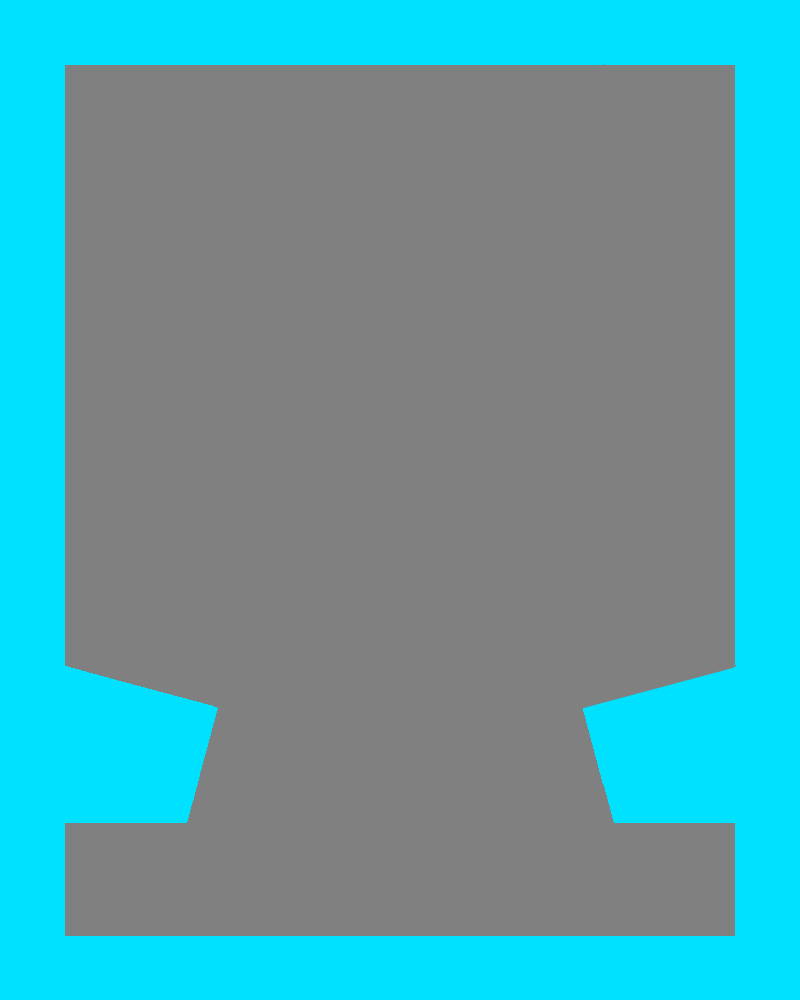
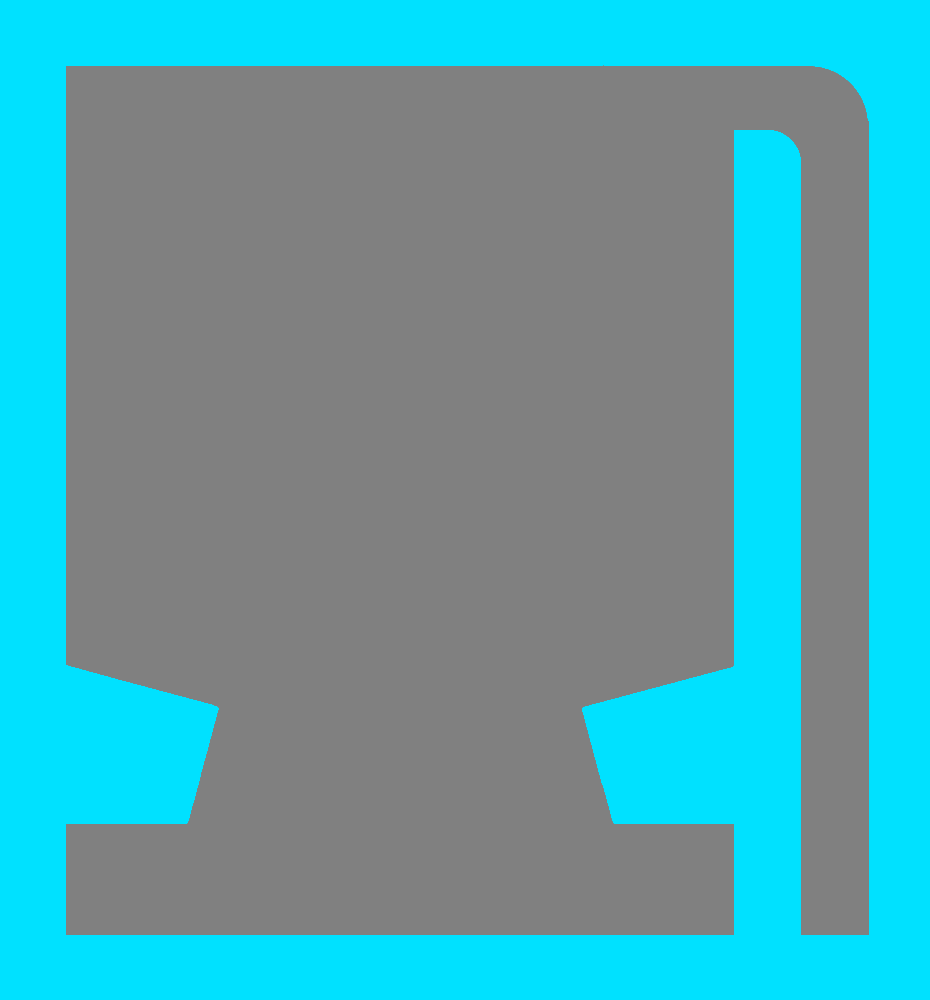
Updated

diff --git a/Pinball.py b/Pinball.py
@@ -2,7 +2,6 @@ import pygame, pymunk, math, pymunk.pygame_util, random
 from pymunk import Vec2d 
 from Ball import*
 from Hud import*
-from Lives import*
 from Map import*
 from Bumper import*
 from Flipper import*
@@ -16,7 +15,7 @@ Map.collision_type = 2
 Flipper.collision_type = 3
 Bumper.collision_type = 4
 
-size = (800,1000)
+size = (930,1000)
 screen = pygame.display.set_mode(size)
 draw_options = pymunk.pygame_util.DrawOptions(screen)
 #https://www.vpforums.org/Tutorials/Sounds/SndLib1.html 
@@ -46,9 +45,16 @@ objects.append(leftFlipper)
 bumperCenters = [(250, 200), (400, 300),(550, 200)]
 for center in bumperCenters:
     objects.append(Bumper(space, center))
-        
+    
+points = 0
+
+live = Hud("lives ",[0,0])
+point = Hud("points ", [620,0])
 
 def game():
+    ballcountMAX = 1
+    ballcount = 0 
+    lives = 3
     while True:
         for event in pygame.event.get():
             if event.type == pygame.QUIT:
@@ -60,20 +66,36 @@ def game():
                     leftFlipper.flip()
                 if event.type == pygame.KEYDOWN:
                     if event.key == pygame.K_b:
-                        x = random.randint(200, 600)
-                        ball = Ball(space, [x, 350]) 
-                        objects.append(ball)
+                        if ballcount < ballcountMAX:
+                            ballcount += 1
+                            if random.randint(0,1) == 0:    #left
+                                x = random.randint(200, 350)
+                            else:
+                                x = random.randint(450, 600)
+                            ball = Ball(space, [x, 350]) 
+                            objects.append(ball)
+                        else:
+                            print("Cannot add another ball")
         
         
         for o in objects:
             o.update()
             if o.rect.top > size[1]:
+                ballcount -= 1
+                lives -=1
                 o.drainSound.play()
                 space.remove(o.body, o.shape)
                 objects.remove(o)
+                
+        live.update(lives) 
+        if lives == 0:
+            pygame.quit()
+        
         
         screen.fill((255,255,255))
         screen.blit(table.image, table.rect)
+        screen.blit(live.image, live.rect)
+        screen.blit(point.image, point.rect)
         for line in table.lines:
             pygame.draw.line(screen, ("black"), line.a, line.b, 5)
         for o in objects:

diff --git a/Map.py b/Map.py
@@ -10,15 +10,20 @@ class Map():
             #box
             [(65, 665), (218, 708)],
             [(735, 665), (582, 708)],
-            [(735, 665), (735, 65)],
-            [(735, 65), (65, 65)],
+            [(735, 665), (735, 130)],
+            [(815, 65), (65, 65)],
             [(65, 65), (65, 665)],
             #left pinch
             [(140, 600), (235, 630)],
             [(140, 600), (145, 500)],
             #right pinch
             [(660, 600), (565, 630)],
-            [(660, 600), (655, 500)]
+            [(660, 600), (655, 500)],
+            #Launcher
+            [(735, 130), (775, 130)],
+            [(869, 121), (869, 935)],
+            [(869, 935), (800, 935)],
+            [(800, 935), (800, 156)],
         ]
         
         self.lines  = []

diff --git a/Hud.py b/Hud.py
@@ -1,0 +1,14 @@
+import pygame, pymunk, math, pymunk.pygame_util, random
+
+class Hud():
+    def __init__(self, baseText, startPos=[0,0]):
+        self.font = pygame.font.Font(None, 64)
+        self.baseText = baseText
+        self.image = self.font.render("Score: 0", 1, (0, 0, 0))
+        self.rect = self.image.get_rect(topleft = startPos)
+
+    def update(self, score):
+        text = self.baseText + str(score)
+        self.image = self.font.render(text , 1, (0, 0, 0))
+        self.rect = self.image.get_rect(topleft = self.rect.topleft)
+

diff --git a/Ball.py b/Ball.py
@@ -36,6 +36,7 @@ class Ball():
         ball = arbiter.shapes[0].obj
         bumper = arbiter.shapes[1].obj
         if arbiter.is_first_contact:
+            points += 100
             bumper.bump()
         return True
         
